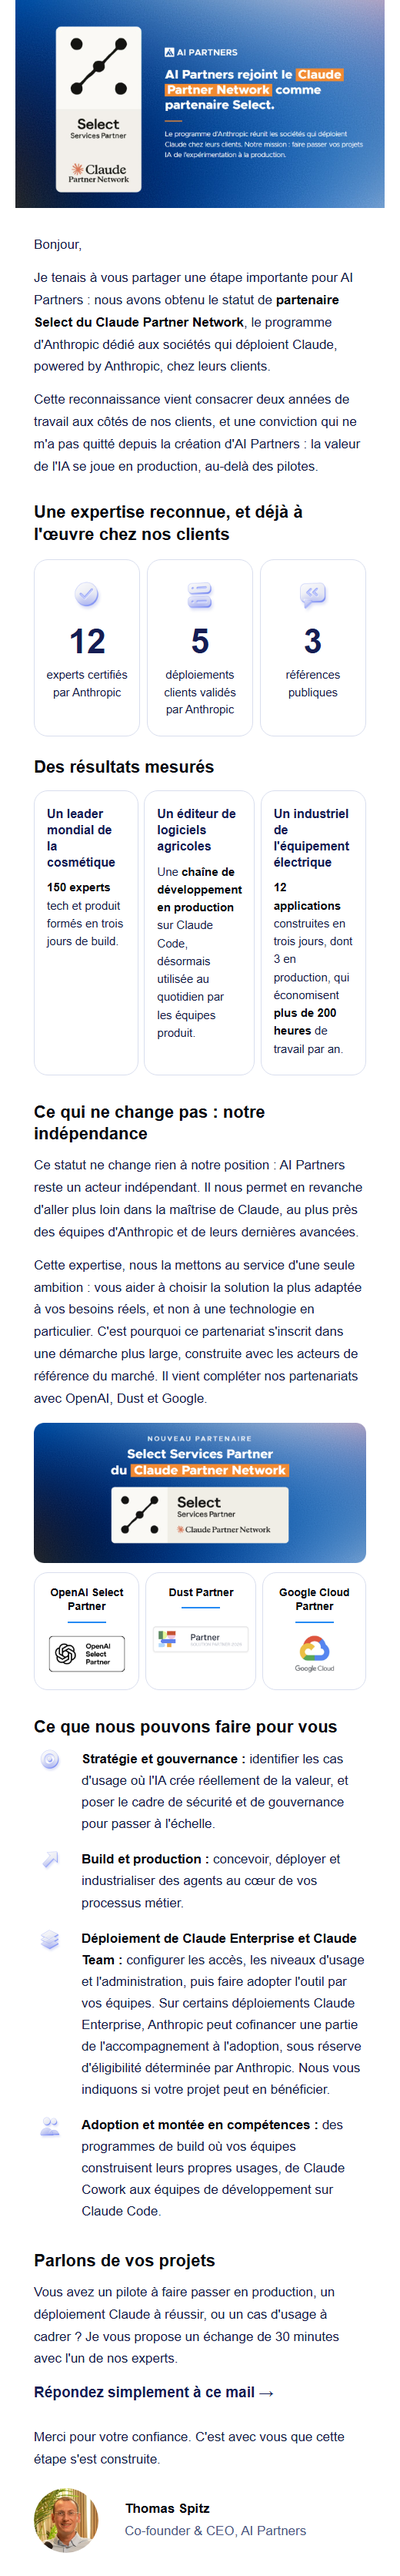
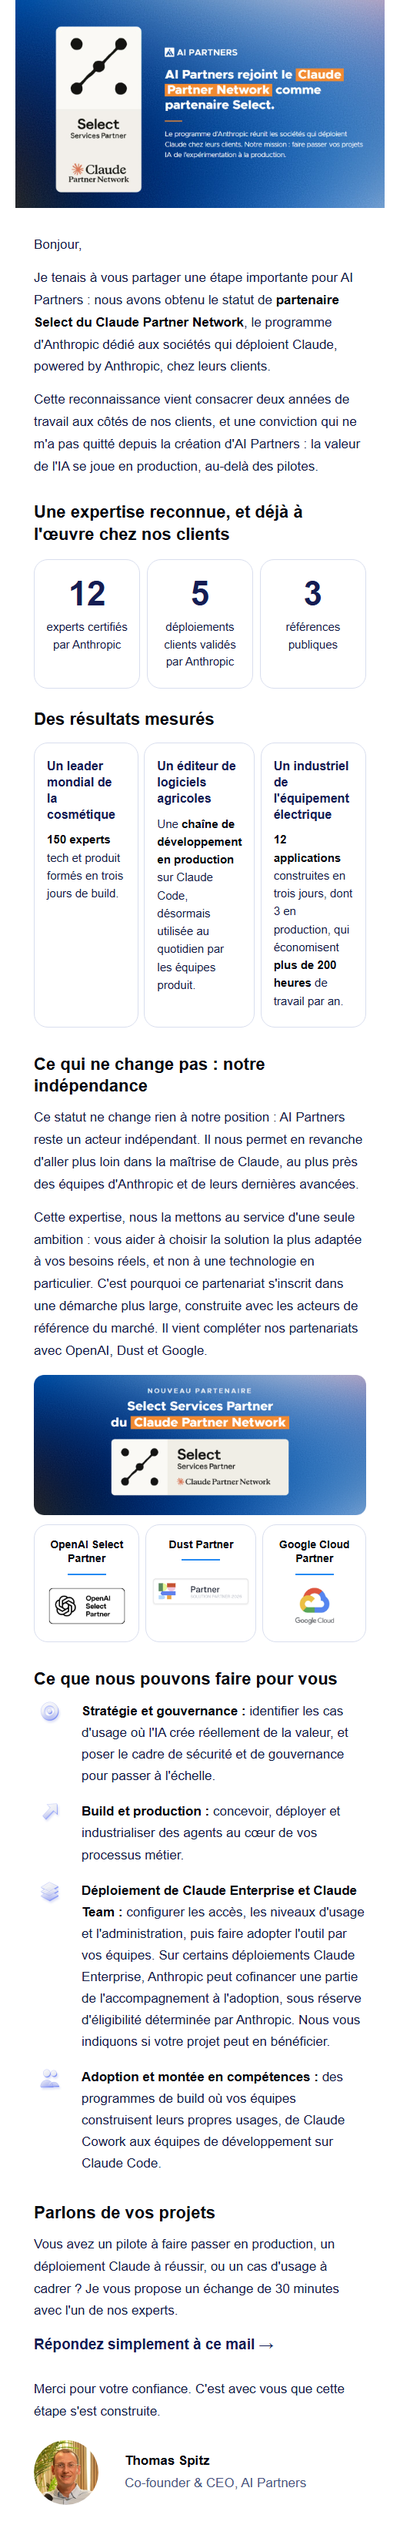
Mail d'annonce v2 : plus d'icône au-dessus des 3 chiffres (retour d'Arthur 16/11)

diff --git a/PRESENTATIONS/2026-11_newsletter_anthropic_select/v2/email_hubspot_module.html b/PRESENTATIONS/2026-11_newsletter_anthropic_select/v2/email_hubspot_module.html
@@ -6,7 +6,7 @@
 <tr><td style="padding:0 4px 14px 4px;font-family:Helvetica, Arial, sans-serif;font-size:17px;line-height:1.7;color:#141B45">Je tenais à vous partager une étape importante pour AI Partners&nbsp;: nous avons obtenu le statut de <strong style="color:#05070F">partenaire Select du Claude Partner Network</strong>, le programme d'Anthropic dédié aux sociétés qui déploient Claude, powered by Anthropic, chez leurs clients.</td></tr>
 <tr><td style="padding:0 4px 30px 4px;font-family:Helvetica, Arial, sans-serif;font-size:17px;line-height:1.7;color:#141B45">Cette reconnaissance vient consacrer deux années de travail aux côtés de nos clients, et une conviction qui ne m'a pas quitté depuis la création d'AI Partners&nbsp;: la valeur de l'IA se joue en production, au-delà des pilotes.</td></tr>
 <tr><td style="padding:0px 4px 12px 4px"><h2 style="margin:0;font-family:Helvetica, Arial, sans-serif;font-size:22px;line-height:1.3;font-weight:bold;color:#05070F">Une expertise reconnue, et déjà à l'œuvre chez nos clients</h2></td></tr>
-<tr><td style="padding:6px 4px 26px 4px"><table role="presentation" width="100%" cellpadding="0" cellspacing="0" style="border-collapse:separate"><tr><td valign="top" width="32%" align="center" bgcolor="#FFFFFF" style="width:32%;background-color:#FFFFFF;border:1px solid #D9DEEE;border-radius:18px;padding:18px 12px 22px 12px;text-align:center"><img src="https://arthurw31.github.io/ai-partners-podcast-content-machine/newsletters/anthropic-select/v2/verre_badge-check_72.png" width="56" height="56" alt="" style="display:block;border:0;width:56px;height:56px;margin:0 auto 10px auto"><div style="font-family:Helvetica, Arial, sans-serif;font-size:44px;line-height:1;font-weight:bold;color:#151D53">12</div><div style="padding-top:10px;font-family:Helvetica, Arial, sans-serif;font-size:15px;line-height:1.5;color:#141B45">experts certifiés par Anthropic</div></td><td width="2%" style="width:2%;font-size:0;line-height:0">&nbsp;</td><td valign="top" width="32%" align="center" bgcolor="#FFFFFF" style="width:32%;background-color:#FFFFFF;border:1px solid #D9DEEE;border-radius:18px;padding:18px 12px 22px 12px;text-align:center"><img src="https://arthurw31.github.io/ai-partners-podcast-content-machine/newsletters/anthropic-select/v2/verre_server_72.png" width="56" height="56" alt="" style="display:block;border:0;width:56px;height:56px;margin:0 auto 10px auto"><div style="font-family:Helvetica, Arial, sans-serif;font-size:44px;line-height:1;font-weight:bold;color:#151D53">5</div><div style="padding-top:10px;font-family:Helvetica, Arial, sans-serif;font-size:15px;line-height:1.5;color:#141B45">déploiements clients validés par Anthropic</div></td><td width="2%" style="width:2%;font-size:0;line-height:0">&nbsp;</td><td valign="top" width="32%" align="center" bgcolor="#FFFFFF" style="width:32%;background-color:#FFFFFF;border:1px solid #D9DEEE;border-radius:18px;padding:18px 12px 22px 12px;text-align:center"><img src="https://arthurw31.github.io/ai-partners-podcast-content-machine/newsletters/anthropic-select/v2/verre_message-square-quote_72.png" width="56" height="56" alt="" style="display:block;border:0;width:56px;height:56px;margin:0 auto 10px auto"><div style="font-family:Helvetica, Arial, sans-serif;font-size:44px;line-height:1;font-weight:bold;color:#151D53">3</div><div style="padding-top:10px;font-family:Helvetica, Arial, sans-serif;font-size:15px;line-height:1.5;color:#141B45">références publiques</div></td></tr></table></td></tr>
+<tr><td style="padding:6px 4px 26px 4px"><table role="presentation" width="100%" cellpadding="0" cellspacing="0" style="border-collapse:separate"><tr><td valign="top" width="32%" align="center" bgcolor="#FFFFFF" style="width:32%;background-color:#FFFFFF;border:1px solid #D9DEEE;border-radius:18px;padding:22px 12px 22px 12px;text-align:center"><div style="font-family:Helvetica, Arial, sans-serif;font-size:44px;line-height:1;font-weight:bold;color:#151D53">12</div><div style="padding-top:10px;font-family:Helvetica, Arial, sans-serif;font-size:15px;line-height:1.5;color:#141B45">experts certifiés par Anthropic</div></td><td width="2%" style="width:2%;font-size:0;line-height:0">&nbsp;</td><td valign="top" width="32%" align="center" bgcolor="#FFFFFF" style="width:32%;background-color:#FFFFFF;border:1px solid #D9DEEE;border-radius:18px;padding:22px 12px 22px 12px;text-align:center"><div style="font-family:Helvetica, Arial, sans-serif;font-size:44px;line-height:1;font-weight:bold;color:#151D53">5</div><div style="padding-top:10px;font-family:Helvetica, Arial, sans-serif;font-size:15px;line-height:1.5;color:#141B45">déploiements clients validés par Anthropic</div></td><td width="2%" style="width:2%;font-size:0;line-height:0">&nbsp;</td><td valign="top" width="32%" align="center" bgcolor="#FFFFFF" style="width:32%;background-color:#FFFFFF;border:1px solid #D9DEEE;border-radius:18px;padding:22px 12px 22px 12px;text-align:center"><div style="font-family:Helvetica, Arial, sans-serif;font-size:44px;line-height:1;font-weight:bold;color:#151D53">3</div><div style="padding-top:10px;font-family:Helvetica, Arial, sans-serif;font-size:15px;line-height:1.5;color:#141B45">références publiques</div></td></tr></table></td></tr>
 <tr><td style="padding:0px 4px 12px 4px"><h2 style="margin:0;font-family:Helvetica, Arial, sans-serif;font-size:22px;line-height:1.3;font-weight:bold;color:#05070F">Des résultats mesurés</h2></td></tr>
 <tr><td style="padding:4px 4px 34px 4px"><table role="presentation" width="100%" cellpadding="0" cellspacing="0" style="border-collapse:separate"><tr><td valign="top" width="32%" bgcolor="#FFFFFF" style="width:32%;background-color:#FFFFFF;border:1px solid #D9DEEE;border-radius:18px;padding:20px 16px 22px 16px;font-family:Helvetica, Arial, sans-serif;font-size:15px;line-height:1.55;color:#141B45"><div style="padding:0 0 10px 0;font-size:16px;line-height:1.3;font-weight:bold;color:#151D53">Un leader mondial de la cosmétique</div><strong style="color:#05070F">150 experts</strong> tech et produit formés en trois jours de build.</td><td width="2%" style="width:2%;font-size:0;line-height:0">&nbsp;</td><td valign="top" width="32%" bgcolor="#FFFFFF" style="width:32%;background-color:#FFFFFF;border:1px solid #D9DEEE;border-radius:18px;padding:20px 16px 22px 16px;font-family:Helvetica, Arial, sans-serif;font-size:15px;line-height:1.55;color:#141B45"><div style="padding:0 0 10px 0;font-size:16px;line-height:1.3;font-weight:bold;color:#151D53">Un éditeur de logiciels agricoles</div>Une <strong style="color:#05070F">chaîne de développement en production</strong> sur Claude Code, désormais utilisée au quotidien par les équipes produit.</td><td width="2%" style="width:2%;font-size:0;line-height:0">&nbsp;</td><td valign="top" width="32%" bgcolor="#FFFFFF" style="width:32%;background-color:#FFFFFF;border:1px solid #D9DEEE;border-radius:18px;padding:20px 16px 22px 16px;font-family:Helvetica, Arial, sans-serif;font-size:15px;line-height:1.55;color:#141B45"><div style="padding:0 0 10px 0;font-size:16px;line-height:1.3;font-weight:bold;color:#151D53">Un industriel de l'équipement électrique</div><strong style="color:#05070F">12 applications</strong> construites en trois jours, dont 3 en production, qui économisent <strong style="color:#05070F">plus de 200 heures</strong> de travail par an.</td></tr></table></td></tr>
 <tr><td style="padding:0px 4px 12px 4px"><h2 style="margin:0;font-family:Helvetica, Arial, sans-serif;font-size:22px;line-height:1.3;font-weight:bold;color:#05070F">Ce qui ne change pas&nbsp;: notre indépendance</h2></td></tr><tr><td style="padding:0 4px 14px 4px;font-family:Helvetica, Arial, sans-serif;font-size:17px;line-height:1.7;color:#141B45">Ce statut ne change rien à notre position&nbsp;: AI Partners reste un acteur indépendant. Il nous permet en revanche d'aller plus loin dans la maîtrise de Claude, au plus près des équipes d'Anthropic et de leurs dernières avancées.</td></tr><tr><td style="padding:0 4px 16px 4px;font-family:Helvetica, Arial, sans-serif;font-size:17px;line-height:1.7;color:#141B45">Cette expertise, nous la mettons au service d'une seule ambition&nbsp;: vous aider à choisir la solution la plus adaptée à vos besoins réels, et non à une technologie en particulier. C'est pourquoi ce partenariat s'inscrit dans une démarche plus large, construite avec les acteurs de référence du marché. Il vient compléter nos partenariats avec OpenAI, Dust et Google.</td></tr><tr><td style="padding:0 4px 34px 4px"><img src="https://arthurw31.github.io/ai-partners-podcast-content-machine/newsletters/anthropic-select/v2/encadre_nouveau_partenaire.png" width="592" height="250" alt="Nouveau partenaire : Select Services Partner du Claude Partner Network" style="display:block;border:0;width:592px;height:250px;width:100%;max-width:592px;height:auto"><div style="height:12px;font-size:0;line-height:0">&nbsp;</div><table role="presentation" width="100%" cellpadding="0" cellspacing="0" style="border-collapse:separate"><tr><td width="32%" valign="top" align="center" bgcolor="#FFFFFF" style="width:32%;border:1px solid #D9DEEE;border-radius:18px;padding:16px 6px 18px 6px;font-family:Helvetica, Arial, sans-serif;text-align:center"><div style="font-size:14px;line-height:1.3;font-weight:bold;color:#05070F">OpenAI Select Partner</div><table role="presentation" align="center" cellpadding="0" cellspacing="0" style="margin:10px auto 12px auto"><tr><td width="50" height="2" bgcolor="#258AF3" style="width:50px;height:2px;font-size:0;line-height:0">&nbsp;</td></tr></table><table role="presentation" align="center" cellpadding="0" cellspacing="0"><tr><td height="56" valign="middle" align="center" style="height:56px"><img src="https://arthurw31.github.io/ai-partners-podcast-content-machine/newsletters/anthropic-select/v2/partenaire_openai.png" width="106" height="54" alt="OpenAI Select Partner" style="display:block;border:0;width:106px;height:54px;"></td></tr></table></td><td width="2%" style="width:2%;font-size:0;line-height:0">&nbsp;</td><td width="32%" valign="top" align="center" bgcolor="#FFFFFF" style="width:32%;border:1px solid #D9DEEE;border-radius:18px;padding:16px 6px 18px 6px;font-family:Helvetica, Arial, sans-serif;text-align:center"><div style="font-size:14px;line-height:1.3;font-weight:bold;color:#05070F">Dust Partner</div><table role="presentation" align="center" cellpadding="0" cellspacing="0" style="margin:10px auto 12px auto"><tr><td width="50" height="2" bgcolor="#258AF3" style="width:50px;height:2px;font-size:0;line-height:0">&nbsp;</td></tr></table><table role="presentation" align="center" cellpadding="0" cellspacing="0"><tr><td height="56" valign="middle" align="center" style="height:56px"><img src="https://arthurw31.github.io/ai-partners-podcast-content-machine/newsletters/anthropic-select/v2/partenaire_dust.png" width="130" height="39" alt="Dust Partner" style="display:block;border:0;width:130px;height:39px;"></td></tr></table></td><td width="2%" style="width:2%;font-size:0;line-height:0">&nbsp;</td><td width="32%" valign="top" align="center" bgcolor="#FFFFFF" style="width:32%;border:1px solid #D9DEEE;border-radius:18px;padding:16px 6px 18px 6px;font-family:Helvetica, Arial, sans-serif;text-align:center"><div style="font-size:14px;line-height:1.3;font-weight:bold;color:#05070F">Google Cloud Partner</div><table role="presentation" align="center" cellpadding="0" cellspacing="0" style="margin:10px auto 12px auto"><tr><td width="50" height="2" bgcolor="#258AF3" style="width:50px;height:2px;font-size:0;line-height:0">&nbsp;</td></tr></table><table role="presentation" align="center" cellpadding="0" cellspacing="0"><tr><td height="56" valign="middle" align="center" style="height:56px"><img src="https://arthurw31.github.io/ai-partners-podcast-content-machine/newsletters/anthropic-select/v2/partenaire_google.png" width="58" height="56" alt="Google Cloud Partner" style="display:block;border:0;width:58px;height:56px;"></td></tr></table></td></tr></table></td></tr>

diff --git a/PRESENTATIONS/2026-11_newsletter_anthropic_select/v2/email.html b/PRESENTATIONS/2026-11_newsletter_anthropic_select/v2/email.html
@@ -10,7 +10,7 @@
 <tr><td style="padding:0 4px 14px 4px;font-family:Helvetica, Arial, sans-serif;font-size:17px;line-height:1.7;color:#141B45">Je tenais à vous partager une étape importante pour AI Partners&nbsp;: nous avons obtenu le statut de <strong style="color:#05070F">partenaire Select du Claude Partner Network</strong>, le programme d'Anthropic dédié aux sociétés qui déploient Claude, powered by Anthropic, chez leurs clients.</td></tr>
 <tr><td style="padding:0 4px 30px 4px;font-family:Helvetica, Arial, sans-serif;font-size:17px;line-height:1.7;color:#141B45">Cette reconnaissance vient consacrer deux années de travail aux côtés de nos clients, et une conviction qui ne m'a pas quitté depuis la création d'AI Partners&nbsp;: la valeur de l'IA se joue en production, au-delà des pilotes.</td></tr>
 <tr><td style="padding:0px 4px 12px 4px"><h2 style="margin:0;font-family:Helvetica, Arial, sans-serif;font-size:22px;line-height:1.3;font-weight:bold;color:#05070F">Une expertise reconnue, et déjà à l'œuvre chez nos clients</h2></td></tr>
-<tr><td style="padding:6px 4px 26px 4px"><table role="presentation" width="100%" cellpadding="0" cellspacing="0" style="border-collapse:separate"><tr><td valign="top" width="32%" align="center" bgcolor="#FFFFFF" style="width:32%;background-color:#FFFFFF;border:1px solid #D9DEEE;border-radius:18px;padding:18px 12px 22px 12px;text-align:center"><img src="images/verre_badge-check_72.png" width="56" height="56" alt="" style="display:block;border:0;width:56px;height:56px;margin:0 auto 10px auto"><div style="font-family:Helvetica, Arial, sans-serif;font-size:44px;line-height:1;font-weight:bold;color:#151D53">12</div><div style="padding-top:10px;font-family:Helvetica, Arial, sans-serif;font-size:15px;line-height:1.5;color:#141B45">experts certifiés par Anthropic</div></td><td width="2%" style="width:2%;font-size:0;line-height:0">&nbsp;</td><td valign="top" width="32%" align="center" bgcolor="#FFFFFF" style="width:32%;background-color:#FFFFFF;border:1px solid #D9DEEE;border-radius:18px;padding:18px 12px 22px 12px;text-align:center"><img src="images/verre_server_72.png" width="56" height="56" alt="" style="display:block;border:0;width:56px;height:56px;margin:0 auto 10px auto"><div style="font-family:Helvetica, Arial, sans-serif;font-size:44px;line-height:1;font-weight:bold;color:#151D53">5</div><div style="padding-top:10px;font-family:Helvetica, Arial, sans-serif;font-size:15px;line-height:1.5;color:#141B45">déploiements clients validés par Anthropic</div></td><td width="2%" style="width:2%;font-size:0;line-height:0">&nbsp;</td><td valign="top" width="32%" align="center" bgcolor="#FFFFFF" style="width:32%;background-color:#FFFFFF;border:1px solid #D9DEEE;border-radius:18px;padding:18px 12px 22px 12px;text-align:center"><img src="images/verre_message-square-quote_72.png" width="56" height="56" alt="" style="display:block;border:0;width:56px;height:56px;margin:0 auto 10px auto"><div style="font-family:Helvetica, Arial, sans-serif;font-size:44px;line-height:1;font-weight:bold;color:#151D53">3</div><div style="padding-top:10px;font-family:Helvetica, Arial, sans-serif;font-size:15px;line-height:1.5;color:#141B45">références publiques</div></td></tr></table></td></tr>
+<tr><td style="padding:6px 4px 26px 4px"><table role="presentation" width="100%" cellpadding="0" cellspacing="0" style="border-collapse:separate"><tr><td valign="top" width="32%" align="center" bgcolor="#FFFFFF" style="width:32%;background-color:#FFFFFF;border:1px solid #D9DEEE;border-radius:18px;padding:22px 12px 22px 12px;text-align:center"><div style="font-family:Helvetica, Arial, sans-serif;font-size:44px;line-height:1;font-weight:bold;color:#151D53">12</div><div style="padding-top:10px;font-family:Helvetica, Arial, sans-serif;font-size:15px;line-height:1.5;color:#141B45">experts certifiés par Anthropic</div></td><td width="2%" style="width:2%;font-size:0;line-height:0">&nbsp;</td><td valign="top" width="32%" align="center" bgcolor="#FFFFFF" style="width:32%;background-color:#FFFFFF;border:1px solid #D9DEEE;border-radius:18px;padding:22px 12px 22px 12px;text-align:center"><div style="font-family:Helvetica, Arial, sans-serif;font-size:44px;line-height:1;font-weight:bold;color:#151D53">5</div><div style="padding-top:10px;font-family:Helvetica, Arial, sans-serif;font-size:15px;line-height:1.5;color:#141B45">déploiements clients validés par Anthropic</div></td><td width="2%" style="width:2%;font-size:0;line-height:0">&nbsp;</td><td valign="top" width="32%" align="center" bgcolor="#FFFFFF" style="width:32%;background-color:#FFFFFF;border:1px solid #D9DEEE;border-radius:18px;padding:22px 12px 22px 12px;text-align:center"><div style="font-family:Helvetica, Arial, sans-serif;font-size:44px;line-height:1;font-weight:bold;color:#151D53">3</div><div style="padding-top:10px;font-family:Helvetica, Arial, sans-serif;font-size:15px;line-height:1.5;color:#141B45">références publiques</div></td></tr></table></td></tr>
 <tr><td style="padding:0px 4px 12px 4px"><h2 style="margin:0;font-family:Helvetica, Arial, sans-serif;font-size:22px;line-height:1.3;font-weight:bold;color:#05070F">Des résultats mesurés</h2></td></tr>
 <tr><td style="padding:4px 4px 34px 4px"><table role="presentation" width="100%" cellpadding="0" cellspacing="0" style="border-collapse:separate"><tr><td valign="top" width="32%" bgcolor="#FFFFFF" style="width:32%;background-color:#FFFFFF;border:1px solid #D9DEEE;border-radius:18px;padding:20px 16px 22px 16px;font-family:Helvetica, Arial, sans-serif;font-size:15px;line-height:1.55;color:#141B45"><div style="padding:0 0 10px 0;font-size:16px;line-height:1.3;font-weight:bold;color:#151D53">Un leader mondial de la cosmétique</div><strong style="color:#05070F">150 experts</strong> tech et produit formés en trois jours de build.</td><td width="2%" style="width:2%;font-size:0;line-height:0">&nbsp;</td><td valign="top" width="32%" bgcolor="#FFFFFF" style="width:32%;background-color:#FFFFFF;border:1px solid #D9DEEE;border-radius:18px;padding:20px 16px 22px 16px;font-family:Helvetica, Arial, sans-serif;font-size:15px;line-height:1.55;color:#141B45"><div style="padding:0 0 10px 0;font-size:16px;line-height:1.3;font-weight:bold;color:#151D53">Un éditeur de logiciels agricoles</div>Une <strong style="color:#05070F">chaîne de développement en production</strong> sur Claude Code, désormais utilisée au quotidien par les équipes produit.</td><td width="2%" style="width:2%;font-size:0;line-height:0">&nbsp;</td><td valign="top" width="32%" bgcolor="#FFFFFF" style="width:32%;background-color:#FFFFFF;border:1px solid #D9DEEE;border-radius:18px;padding:20px 16px 22px 16px;font-family:Helvetica, Arial, sans-serif;font-size:15px;line-height:1.55;color:#141B45"><div style="padding:0 0 10px 0;font-size:16px;line-height:1.3;font-weight:bold;color:#151D53">Un industriel de l'équipement électrique</div><strong style="color:#05070F">12 applications</strong> construites en trois jours, dont 3 en production, qui économisent <strong style="color:#05070F">plus de 200 heures</strong> de travail par an.</td></tr></table></td></tr>
 <tr><td style="padding:0px 4px 12px 4px"><h2 style="margin:0;font-family:Helvetica, Arial, sans-serif;font-size:22px;line-height:1.3;font-weight:bold;color:#05070F">Ce qui ne change pas&nbsp;: notre indépendance</h2></td></tr><tr><td style="padding:0 4px 14px 4px;font-family:Helvetica, Arial, sans-serif;font-size:17px;line-height:1.7;color:#141B45">Ce statut ne change rien à notre position&nbsp;: AI Partners reste un acteur indépendant. Il nous permet en revanche d'aller plus loin dans la maîtrise de Claude, au plus près des équipes d'Anthropic et de leurs dernières avancées.</td></tr><tr><td style="padding:0 4px 16px 4px;font-family:Helvetica, Arial, sans-serif;font-size:17px;line-height:1.7;color:#141B45">Cette expertise, nous la mettons au service d'une seule ambition&nbsp;: vous aider à choisir la solution la plus adaptée à vos besoins réels, et non à une technologie en particulier. C'est pourquoi ce partenariat s'inscrit dans une démarche plus large, construite avec les acteurs de référence du marché. Il vient compléter nos partenariats avec OpenAI, Dust et Google.</td></tr><tr><td style="padding:0 4px 34px 4px"><img src="images/encadre_nouveau_partenaire.png" width="592" height="250" alt="Nouveau partenaire : Select Services Partner du Claude Partner Network" style="display:block;border:0;width:592px;height:250px;width:100%;max-width:592px;height:auto"><div style="height:12px;font-size:0;line-height:0">&nbsp;</div><table role="presentation" width="100%" cellpadding="0" cellspacing="0" style="border-collapse:separate"><tr><td width="32%" valign="top" align="center" bgcolor="#FFFFFF" style="width:32%;border:1px solid #D9DEEE;border-radius:18px;padding:16px 6px 18px 6px;font-family:Helvetica, Arial, sans-serif;text-align:center"><div style="font-size:14px;line-height:1.3;font-weight:bold;color:#05070F">OpenAI Select Partner</div><table role="presentation" align="center" cellpadding="0" cellspacing="0" style="margin:10px auto 12px auto"><tr><td width="50" height="2" bgcolor="#258AF3" style="width:50px;height:2px;font-size:0;line-height:0">&nbsp;</td></tr></table><table role="presentation" align="center" cellpadding="0" cellspacing="0"><tr><td height="56" valign="middle" align="center" style="height:56px"><img src="images/partenaire_openai.png" width="106" height="54" alt="OpenAI Select Partner" style="display:block;border:0;width:106px;height:54px;"></td></tr></table></td><td width="2%" style="width:2%;font-size:0;line-height:0">&nbsp;</td><td width="32%" valign="top" align="center" bgcolor="#FFFFFF" style="width:32%;border:1px solid #D9DEEE;border-radius:18px;padding:16px 6px 18px 6px;font-family:Helvetica, Arial, sans-serif;text-align:center"><div style="font-size:14px;line-height:1.3;font-weight:bold;color:#05070F">Dust Partner</div><table role="presentation" align="center" cellpadding="0" cellspacing="0" style="margin:10px auto 12px auto"><tr><td width="50" height="2" bgcolor="#258AF3" style="width:50px;height:2px;font-size:0;line-height:0">&nbsp;</td></tr></table><table role="presentation" align="center" cellpadding="0" cellspacing="0"><tr><td height="56" valign="middle" align="center" style="height:56px"><img src="images/partenaire_dust.png" width="130" height="39" alt="Dust Partner" style="display:block;border:0;width:130px;height:39px;"></td></tr></table></td><td width="2%" style="width:2%;font-size:0;line-height:0">&nbsp;</td><td width="32%" valign="top" align="center" bgcolor="#FFFFFF" style="width:32%;border:1px solid #D9DEEE;border-radius:18px;padding:16px 6px 18px 6px;font-family:Helvetica, Arial, sans-serif;text-align:center"><div style="font-size:14px;line-height:1.3;font-weight:bold;color:#05070F">Google Cloud Partner</div><table role="presentation" align="center" cellpadding="0" cellspacing="0" style="margin:10px auto 12px auto"><tr><td width="50" height="2" bgcolor="#258AF3" style="width:50px;height:2px;font-size:0;line-height:0">&nbsp;</td></tr></table><table role="presentation" align="center" cellpadding="0" cellspacing="0"><tr><td height="56" valign="middle" align="center" style="height:56px"><img src="images/partenaire_google.png" width="58" height="56" alt="Google Cloud Partner" style="display:block;border:0;width:58px;height:56px;"></td></tr></table></td></tr></table></td></tr>

diff --git a/PRESENTATIONS/2026-11_newsletter_anthropic_select/v2/build_v2.py b/PRESENTATIONS/2026-11_newsletter_anthropic_select/v2/build_v2.py
@@ -89,13 +89,12 @@ def clients() -> str:
 
 def stats() -> str:
     """Les 3 chiffres dans 3 encadrés côte à côte, comme les cartes clients, sans icône (Arthur, 16/11/2026)."""
-    data = [("verre_badge-check_72.png", "12", "experts certifiés par Anthropic"),
-            ("verre_server_72.png", "5", "déploiements clients validés par Anthropic"),
-            ("verre_message-square-quote_72.png", "3", "références publiques")]
+    data = [("", "12", "experts certifiés par Anthropic"),
+            ("", "5", "déploiements clients validés par Anthropic"),
+            ("", "3", "références publiques")]
     cells = GAP.join(
         f'<td valign="top" width="32%" align="center" bgcolor="#FFFFFF" style="width:32%;background-color:#FFFFFF;border:1px solid {BORDER};'
-        f'border-radius:18px;padding:18px 12px 22px 12px;text-align:center"><img src="images/{i}" width="56" height="56" alt="" '
-        f'style="display:block;border:0;width:56px;height:56px;margin:0 auto 10px auto"><div style="{F};font-size:44px;line-height:1;'
+        f'border-radius:18px;padding:22px 12px 22px 12px;text-align:center"><div style="{F};font-size:44px;line-height:1;'
         f'font-weight:bold;color:{NAVY}">{n}</div><div style="padding-top:10px;{F};font-size:15px;line-height:1.5;color:{TEXT}">{t}</div></td>'
         for i, n, t in data)
     return (f'<tr><td style="padding:6px 4px 26px 4px"><table role="presentation" width="100%" cellpadding="0" cellspacing="0" '
